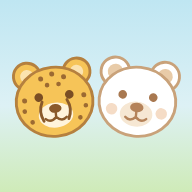
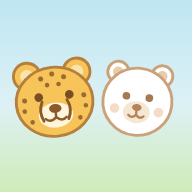
Reshape the bear into a teddy bear: small top ears, round head, compact muzzle
Claude-Session: https://claude.ai/code/session_01LKDK9gHduBwxjC8Grk7QEw

Changed region(s): [[0.5, 0.2812, 0.9688, 0.7188], [0.75, 0.4688, 0.8438, 0.5312]]

diff --git a/games/app/index.html b/games/app/index.html
@@ -282,9 +282,9 @@ const CHEETAH='cheetah';
    The same list draws the picture on the page and on the game canvases. */
 const SPOT='#9C6A32',CH='#F6C458',CHO='#B5803F';
 const FACES={
- bear:[['e',24,27,15,15,'#FFFFFF','#C9A27A'],['e',76,27,15,15,'#FFFFFF','#C9A27A'],['e',24,27,8,8,'#E8CBA8'],['e',76,27,8,8,'#E8CBA8'],['e',50,56,40,36,'#FFFFFF','#C9A27A'],
-  ['e',24,66,6,6,'#F5DCC6'],['e',76,66,6,6,'#F5DCC6'],['e',50,69,17,13,'#F6E7D3'],['e',50,62,7,5,'#B5835A'],['p','M50 67v5M50 72q-6 6-11 1M50 72q6 6 11 1','#B5835A',2.5],
-  ['e',34,50,4.5,4.5,'#A87850'],['e',66,50,4.5,4.5,'#A87850']],
+ bear:[['e',27,27,11,11,'#FFFFFF','#C9A27A'],['e',73,27,11,11,'#FFFFFF','#C9A27A'],['e',27,27,5.5,5.5,'#E8CBA8'],['e',73,27,5.5,5.5,'#E8CBA8'],['e',50,56,36,35,'#FFFFFF','#C9A27A'],
+  ['e',27,65,5,5,'#F5DCC6'],['e',73,65,5,5,'#F5DCC6'],['e',50,67,14,11.5,'#F6E7D3'],['e',50,62,5,3.6,'#B5835A'],['p','M50 65.5v4M50 69.5q-4 5-8 1M50 69.5q4 5 8 1','#B5835A',2.4],
+  ['e',38,51,4,4,'#A87850'],['e',62,51,4,4,'#A87850']],
  cheetah:[['e',24,27,14,14,CH,CHO],['e',76,27,14,14,CH,CHO],['e',24,27,7,7,'#FBE3B0'],['e',76,27,7,7,'#FBE3B0'],['e',50,56,40,36,CH,CHO],
   ['e',38,31,2.6,2.6,SPOT],['e',50,27,2.6,2.6,SPOT],['e',62,31,2.6,2.6,SPOT],['e',44,38,2.4,2.4,SPOT],['e',56,38,2.4,2.4,SPOT],
   ['e',19,52,2.6,2.6,SPOT],['e',81,52,2.6,2.6,SPOT],['e',18,63,2.4,2.4,SPOT],['e',82,63,2.4,2.4,SPOT],['e',25,75,2.4,2.4,SPOT],['e',75,75,2.4,2.4,SPOT],
@@ -655,7 +655,7 @@ if(hot&&hot.ready)hot.ready(boot);else boot((hot&&hot.data)||{});
 (function(){
   if(!('serviceWorker' in navigator)||!/^https?:/.test(location.protocol))return;
   navigator.serviceWorker.register('sw.js').catch(function(){});
-  var MINE='5a0980a154',last=0;
+  var MINE='c98b75dbb2',last=0;
   function check(){
     if(Date.now()-last<60000)return;last=Date.now();
     fetch('version.json?t='+Date.now(),{cache:'no-store'}).then(function(r){return r.json()}).then(function(j){

diff --git a/games/little-fox-trail.html b/games/little-fox-trail.html
@@ -266,9 +266,9 @@ const CHEETAH='cheetah';
    The same list draws the picture on the page and on the game canvases. */
 const SPOT='#9C6A32',CH='#F6C458',CHO='#B5803F';
 const FACES={
- bear:[['e',24,27,15,15,'#FFFFFF','#C9A27A'],['e',76,27,15,15,'#FFFFFF','#C9A27A'],['e',24,27,8,8,'#E8CBA8'],['e',76,27,8,8,'#E8CBA8'],['e',50,56,40,36,'#FFFFFF','#C9A27A'],
-  ['e',24,66,6,6,'#F5DCC6'],['e',76,66,6,6,'#F5DCC6'],['e',50,69,17,13,'#F6E7D3'],['e',50,62,7,5,'#B5835A'],['p','M50 67v5M50 72q-6 6-11 1M50 72q6 6 11 1','#B5835A',2.5],
-  ['e',34,50,4.5,4.5,'#A87850'],['e',66,50,4.5,4.5,'#A87850']],
+ bear:[['e',27,27,11,11,'#FFFFFF','#C9A27A'],['e',73,27,11,11,'#FFFFFF','#C9A27A'],['e',27,27,5.5,5.5,'#E8CBA8'],['e',73,27,5.5,5.5,'#E8CBA8'],['e',50,56,36,35,'#FFFFFF','#C9A27A'],
+  ['e',27,65,5,5,'#F5DCC6'],['e',73,65,5,5,'#F5DCC6'],['e',50,67,14,11.5,'#F6E7D3'],['e',50,62,5,3.6,'#B5835A'],['p','M50 65.5v4M50 69.5q-4 5-8 1M50 69.5q4 5 8 1','#B5835A',2.4],
+  ['e',38,51,4,4,'#A87850'],['e',62,51,4,4,'#A87850']],
  cheetah:[['e',24,27,14,14,CH,CHO],['e',76,27,14,14,CH,CHO],['e',24,27,7,7,'#FBE3B0'],['e',76,27,7,7,'#FBE3B0'],['e',50,56,40,36,CH,CHO],
   ['e',38,31,2.6,2.6,SPOT],['e',50,27,2.6,2.6,SPOT],['e',62,31,2.6,2.6,SPOT],['e',44,38,2.4,2.4,SPOT],['e',56,38,2.4,2.4,SPOT],
   ['e',19,52,2.6,2.6,SPOT],['e',81,52,2.6,2.6,SPOT],['e',18,63,2.4,2.4,SPOT],['e',82,63,2.4,2.4,SPOT],['e',25,75,2.4,2.4,SPOT],['e',75,75,2.4,2.4,SPOT],
